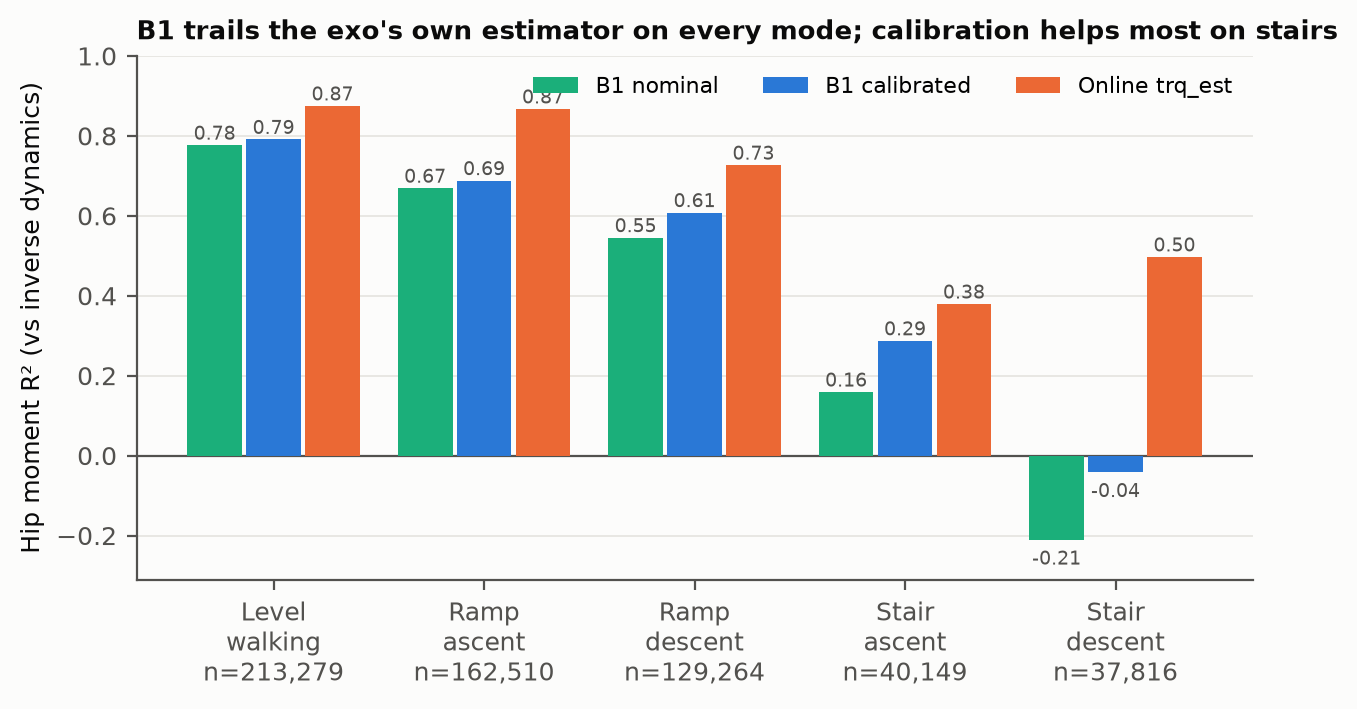
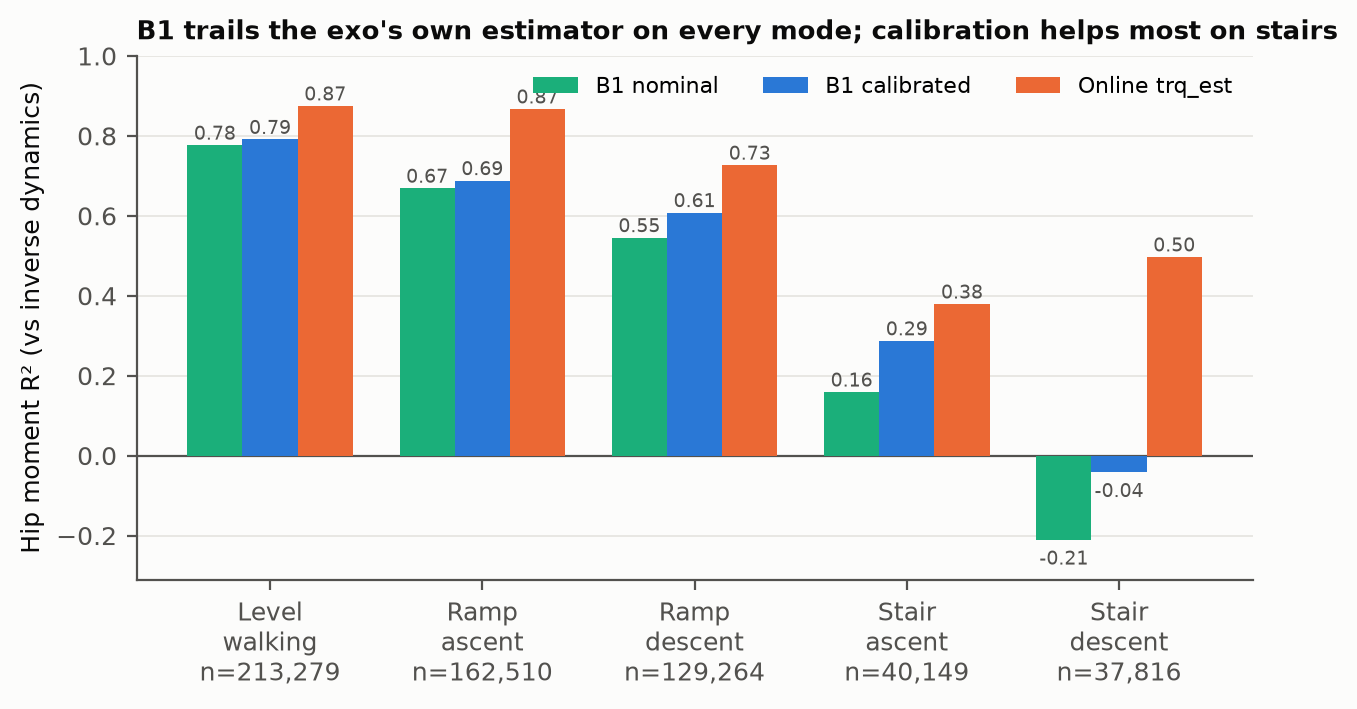
D03 final 16 scored once; D05 encoder TensorRT test
- D03: final participants (sealed predictions from D04's T1) scored once: B1 calibrated R^2 0.698
  vs the exo's online estimator 0.843, below it for every person and mode; figures for the final set.
  plot_replay.py gains --source and handles calibrated-only runs and ST/TR.
- D05: TCN-VAE encoder 10.97 -> 2.09 ms as a TensorRT engine; LSTM-VAE encoder 3.46 -> 14.09 ms
  (slower). Keep LSTM in PyTorch/cuDNN; awareness layer ~11.7 ms per window.

diff --git a/deployment/plot_replay.py b/deployment/plot_replay.py
@@ -24,7 +24,8 @@ FIGURES = Path(__file__).resolve().parent / 'docs' / 'figures'
 INK, MUTED, GRID, SURFACE = '#0b0b0b', '#52514e', '#e4e3df', '#fcfcfb'
 SERIES = {'B1 calibrated': '#2a78d6', 'Online trq_est': '#eb6834', 'B1 nominal': '#1baf7a'}   # fixed order
 MODES = ('LG', 'RA', 'RD', 'SA', 'SD')
-MODE_NAMES = {'LG': 'Level\nwalking', 'RA': 'Ramp\nascent', 'RD': 'Ramp\ndescent', 'SA': 'Stair\nascent', 'SD': 'Stair\ndescent'}
+MODE_NAMES = {'LG': 'Level\nwalking', 'RA': 'Ramp\nascent', 'RD': 'Ramp\ndescent', 'SA': 'Stair\nascent', 'SD': 'Stair\ndescent',
+              'ST': 'Standing', 'TR': 'Transitions'}
 plt.rcParams.update({'figure.dpi': 110, 'savefig.dpi': 200, 'font.size': 9, 'axes.edgecolor': MUTED, 'axes.labelcolor': INK,
                      'xtick.color': MUTED, 'ytick.color': MUTED, 'axes.spines.top': False, 'axes.spines.right': False,
                      'figure.facecolor': SURFACE, 'axes.facecolor': SURFACE, 'axes.grid': True, 'grid.color': GRID,
@@ -39,33 +40,36 @@ def save(fig: plt.Figure, name: str) -> None:
 
 def plot_modes(rows: pd.DataFrame, tag: str) -> None:
     """Grouped bars: hip R² per mode, three estimators, common samples."""
-    table = ar.score(rows, ['mode']).set_index('mode').reindex(list(MODES))
+    table = ar.score(rows, ['mode']).set_index('mode')
+    modes = [m for m in (*MODES, 'ST', 'TR') if m in table.index]          # ST and TR only where inverse dynamics exists
+    table = table.reindex(modes)
     columns = {'B1 nominal': 'B1 nominal r2', 'B1 calibrated': 'B1 calibrated r2', 'Online trq_est': 'online trq_est r2'}
-    order = ['B1 nominal', 'B1 calibrated', 'Online trq_est']
-    fig, ax = plt.subplots(figsize = (7.2, 3.4))
-    width = 0.26
+    order = [name for name in ('B1 nominal', 'B1 calibrated', 'Online trq_est') if columns[name] in table]
+    columns = {k: v for k, v in columns.items() if k in order}
+    fig, ax = plt.subplots(figsize = (7.2 if len(modes) <= 5 else 8.4, 3.4))
+    width = 0.78 / len(order)
     for i, name in enumerate(order):
         values = table[columns[name]].to_numpy()
-        x = np.arange(len(MODES)) + (i - 1) * (width + 0.02)
+        x = np.arange(len(modes)) + (i - (len(order) - 1) / 2) * width
         ax.bar(x, values, width, color = SERIES[name], label = name, zorder = 3)
         for xi, v in zip(x, values):
             ax.annotate(f'{v:.2f}', (xi, v), xytext = (0, 2 if v >= 0 else -9), textcoords = 'offset points', ha = 'center',
                         fontsize = 7, color = MUTED)
     ax.axhline(0, color = MUTED, lw = 0.8)
-    ax.set_xticks(range(len(MODES)), [f'{MODE_NAMES[m]}\nn={int(table.loc[m, "n"]):,}' for m in MODES])
+    ax.set_xticks(range(len(modes)), [f'{MODE_NAMES[m]}\nn={int(table.loc[m, "n"]):,}' for m in modes])
     ax.set_ylabel('Hip moment R² (vs inverse dynamics)')
     ax.set_ylim(min(-0.3, np.nanmin(table[list(columns.values())].to_numpy()) - 0.1), 1)
     ax.grid(axis = 'x', visible = False)
     ax.legend(ncol = 3, loc = 'upper right', fontsize = 8)
-    ax.set_title('B1 trails the exo\'s own estimator on every mode; calibration helps most on stairs', loc = 'left', fontsize = 9.5,
-                 color = INK, fontweight = 'bold')
+    title = 'B1 trails the exo\'s own estimator on every mode' + ('; calibration helps most on stairs' if 'B1 nominal' in order else '')
+    ax.set_title(title, loc = 'left', fontsize = 9.5, color = INK, fontweight = 'bold')
     save(fig, f'D03_{tag}_r2_per_mode.png')
 
 
-def plot_traces(subject: str, tag: str, sign: float) -> None:
-    """A few seconds of level walking and stair descent, left leg: ground truth vs the three estimators."""
+def plot_traces(subject: str, tag: str, sign: float, source: str) -> None:
+    """A few seconds of level walking and stair descent, left leg: ground truth vs the estimators."""
     data = np.load(sr.OUT / f'{subject}.npz')
-    pred = np.load(ar.PRED / 'jetson' / f'{subject}.npz')
+    pred = np.load(ar.PRED / source / f'{subject}.npz')
     fig, axes = plt.subplots(1, 2, figsize = (9.6, 3.2), sharey = True)
     for ax, mode in zip(axes, ('LG', 'SD')):
         best = None
@@ -80,10 +84,10 @@ def plot_traces(subject: str, tag: str, sign: float) -> None:
         a = ok[0] + 10 if len(ok) else 300
         span = slice(a, min(a + 4 * sr.nt.RATE_HZ, n))                         # 4 s
         t = np.arange(n)[span] / sr.nt.RATE_HZ
-        b1 = {v: pred[f'pred_{v}'][s:s + n, 0] for v in sr.VARIANTS}
+        b1 = {v: pred[f'pred_{v}'][s:s + n, 0] for v in sr.VARIANTS if f'pred_{v}' in pred.files}
         lagged = np.r_[np.full(ar.LAG, np.nan), moment[:-ar.LAG]]           # B1 at t estimates the moment at t - 10
         ax.plot(t, lagged[span], color = INK, lw = 2.2, label = 'Inverse dynamics (B1 target, t − 50 ms)')
-        for name, y in (('B1 nominal', b1['nominal']), ('B1 calibrated', b1['calibrated'])):
+        for name, y in [(f'B1 {v}', y) for v, y in b1.items()]:
             yy = y[span]
             ax.plot(t[np.isfinite(yy)], yy[np.isfinite(yy)], color = SERIES[name], lw = 1.6, label = name)
         ax.plot(t, sign * data['trq_est'][s:s + n, 0][span], color = SERIES['Online trq_est'], lw = 1.6, label = 'Online trq_est (t)')
@@ -184,18 +188,21 @@ def plot_device(subjects: list[str], tag: str) -> None:
 def main() -> None:
     parser = argparse.ArgumentParser(description = __doc__.split('\n')[0])
     parser.add_argument('--subjects', default = 'dev', choices = ('dev', 'final', 'all'))
+    parser.add_argument('--source', default = 'jetson', help = 'predictions folder, e.g. jetson, jetson_final')
     args = parser.parse_args()
     FIGURES.mkdir(parents = True, exist_ok = True)
     dev = ar.get_subjects('dev')
     sign = ar.get_sign(pd.concat([ar.get_rows(s, 'reference') for s in dev]))
     subjects = ar.get_subjects(args.subjects)
-    rows = pd.concat([ar.get_rows(s, 'jetson') for s in subjects], ignore_index = True)
+    rows = pd.concat([ar.get_rows(s, args.source) for s in subjects], ignore_index = True)
     rows[['trq_est', 'moment_t', 'moment_lag']] *= sign
     plot_modes(rows, args.subjects)
-    plot_traces(subjects[0], args.subjects, sign)
-    plot_calibration(rows, args.subjects)
+    plot_traces(subjects[0], args.subjects, sign, args.source)
+    if rows['b1_nominal'].notna().any():                                       # needs both variants
+        plot_calibration(rows, args.subjects)
     plot_lag(dev, sign, args.subjects)
-    plot_device(subjects, args.subjects)
+    if all((ar.PRED / 'reference' / f'{s}.npz').exists() for s in subjects):    # needs the PyTorch reference
+        plot_device(subjects, args.subjects)
 
 
 if __name__ == '__main__':

diff --git a/deployment/encoder_engine_test.py b/deployment/encoder_engine_test.py
@@ -1,0 +1,102 @@
+"""On the Jetson: would TensorRT speed up the awareness encoders? Stand-in weights, so no trained model moves.
+
+    python deployment/encoder_engine_test.py
+
+For the LSTM-VAE encoder (16 ch) and the TCN-VAE encoder (23 ch), 600-sample windows, batch 1, random weights of the
+deployed architectures: export ``encode`` (mean and log variance) to ONNX, build fp32 and fp16 engines with trtexec,
+check each engine against PyTorch fp32 on random windows, and time it exactly as latency_budget.py times PyTorch (500
+calls after 50 warm-up, CUDA synchronized). Writes data/replay/scirob/encoder_engines.json and prints a table.
+"""
+import json
+from pathlib import Path
+import subprocess
+import sys
+
+import numpy as np
+import tensorrt as trt
+import torch
+from torch import nn
+
+HERE = Path(__file__).resolve().parent
+sys.path.insert(0, str(HERE))
+sys.path.insert(0, str(HERE.parent / 'ml' / 'common'))
+from latency_budget import WINDOW, time_ms  # noqa: E402
+from moment_engine import TRTEXEC  # noqa: E402
+from models.seq_vae import LSTMVAE, TCNVAE  # noqa: E402
+
+OUT = HERE.parent / 'data' / 'replay' / 'scirob' / 'encoder_engines'
+
+
+class Encoder(nn.Module):
+    """A VAE's encoder alone: (1, C, W) -> mean, log variance (1, 4, 8) each."""
+
+    def __init__(self, vae: nn.Module) -> None:
+        super().__init__()
+        self.vae = vae
+
+    def forward(self, x: torch.Tensor) -> tuple[torch.Tensor, torch.Tensor]:
+        return self.vae.encode(x)
+
+
+class Runner:
+    """A deserialized engine with fixed torch I/O buffers on the GPU."""
+
+    def __init__(self, path: Path) -> None:
+        self.engine = trt.Runtime(trt.Logger(trt.Logger.ERROR)).deserialize_cuda_engine(path.read_bytes())
+        self.context = self.engine.create_execution_context()
+        self.buffers = {}
+        for i in range(self.engine.num_io_tensors):
+            name = self.engine.get_tensor_name(i)
+            self.buffers[name] = torch.empty(tuple(self.engine.get_tensor_shape(name)), dtype = torch.float32, device = 'cuda')
+            self.context.set_tensor_address(name, self.buffers[name].data_ptr())
+
+    def __call__(self, x: torch.Tensor) -> tuple[torch.Tensor, torch.Tensor]:
+        self.buffers['window'].copy_(x)
+        stream = torch.cuda.current_stream()
+        if not self.context.execute_async_v3(stream.cuda_stream):
+            raise RuntimeError('TensorRT execution failed')
+        stream.synchronize()
+        return self.buffers['mu'], self.buffers['logvar']
+
+
+def main() -> None:
+    torch.manual_seed(0)
+    OUT.mkdir(parents = True, exist_ok = True)
+    results = {}
+    for name, vae, channels in (('LSTM-VAE encoder', LSTMVAE(16, WINDOW), 16), ('TCN-VAE encoder', TCNVAE(23, WINDOW), 23)):
+        model = Encoder(vae).eval()
+        stem = name.split()[0].lower()
+        onnx_path = OUT / f'{stem}.onnx'
+        torch.onnx.export(model, (torch.zeros(1, channels, WINDOW),), str(onnx_path), input_names = ['window'],
+                          output_names = ['mu', 'logvar'], opset_version = 17, dynamo = False)
+        model = model.cuda()
+        x = torch.randn(1, channels, WINDOW, device = 'cuda')
+        with torch.inference_mode():
+            results[f'{name}, PyTorch fp32'] = time_ms(lambda: model(x))
+            for precision in ('fp32', 'fp16'):
+                engine_path = OUT / f'{stem}_{precision}.engine'
+                cmd = [TRTEXEC, f'--onnx={onnx_path}', f'--saveEngine={engine_path}', '--skipInference']
+                build = subprocess.run(cmd + (['--fp16'] if precision == 'fp16' else []), capture_output = True, text = True)
+                if build.returncode != 0:
+                    results[f'{name}, TensorRT {precision}'] = {'error': build.stdout[-1500:] + build.stderr[-1500:]}
+                    print(f'{name} {precision}: trtexec failed', flush = True)
+                    continue
+                runner = Runner(engine_path)
+                errors = []
+                for _ in range(20):
+                    xi = torch.randn(1, channels, WINDOW, device = 'cuda')
+                    mu_ref, lv_ref = model(xi)
+                    mu, lv = runner(xi)
+                    errors.append(max((mu - mu_ref).abs().max().item(), (lv - lv_ref).abs().max().item()))
+                results[f'{name}, TensorRT {precision}'] = {**time_ms(lambda: runner(x)), 'max_abs_vs_pytorch': max(errors)}
+    (OUT.parent / 'encoder_engines.json').write_text(json.dumps(results, indent = 2))
+    print(f'{"":42s} {"median":>8s} {"p99":>8s} {"max|diff|":>10s}  (ms)')
+    for k, v in results.items():
+        if 'error' in v:
+            print(f'{k:42s} build failed')
+        else:
+            print(f'{k:42s} {v["median"]:8.2f} {v["p99"]:8.2f} {v.get("max_abs_vs_pytorch", float("nan")):10.2e}')
+
+
+if __name__ == '__main__':
+    main()

diff --git a/deployment/docs/D03_scirob_replay_stage_a.md b/deployment/docs/D03_scirob_replay_stage_a.md
@@ -5,7 +5,7 @@
 | ID | D03 |
 | Date | 2026-10-27 |
 | Dataset | Science Robotics 2024 (Molinaro): AB15–AB34, custom hip exo, 1505 trials, 6.3 h, modes LG, RA, RD, SA, SD, ST, TR. None in B1's training data |
-| Status | **Dev complete** (4 participants, 2026-10-27). Final 16: predictions produced **sealed** on the Jetson overnight 2026-10-27 (D04's T1: calibrated variant, `predictions/jetson_final/`); not analyzed |
+| Status | Complete. Dev 2026-10-27; final 16 predicted sealed on the Jetson overnight 2026-10-27 (D04's T1, calibrated) and scored once 2026-10-29 |
 | Sources | D02 (the B1 engine), E41 (B1), E01 (Sci-Rob audit, axis conventions) |
 | Code / notebooks | `deployment/scirob_replay.py` (converter, Mac), `replay_reference.py` (PyTorch reference, Mac), `replay_runner.py` (streaming replay, Jetson), `analyze_replay.py`, `plot_replay.py` (figures in `docs/figures/D03_*`); streams and predictions in `data/replay/scirob/` (gitignored) |
 
@@ -107,6 +107,34 @@ B1 would gain roughly 0.02 in r; the fixed rule (lag 10) is kept for every numbe
   every mode (pooled 0.707 vs 0.838), and fails on stair descent. The online estimator was built for this exo and these
   tasks; B1 has never seen this device, its sensor mounting, or Sci-Rob's moment timing.
 
+### Final participants (scored once, 2026-10-29)
+
+The other 16 participants, calibrated variant only (chosen on dev), predicted on the Jetson by D04's T1 and analyzed once
+with the dev-derived sign and the fixed lag-10 rule. 2,666,586 leg-samples where B1, `trq_est` and the moment all exist.
+
+| | n | B1 calibrated | Online `trq_est` |
+|---|---|---|---|
+| Pooled | 2,666,586 | **0.698** (0.227) | **0.843** (0.164) |
+| Left / right leg | | 0.740 / 0.656 | 0.860 / 0.826 |
+| LG | 1,018,545 | 0.761 (0.216) | 0.864 (0.162) |
+| RA | 681,081 | 0.700 (0.261) | 0.872 (0.170) |
+| RD | 527,902 | 0.620 (0.207) | 0.759 (0.164) |
+| SA | 163,039 | 0.372 (0.237) | 0.697 (0.163) |
+| SD | 149,075 | 0.006 (0.243) | 0.531 (0.168) |
+| ST | 29,760 | −0.944 (0.125) | 0.247 (0.078) |
+| TR | 97,184 | 0.535 (0.171) | 0.717 (0.133) |
+| Per participant, range | | 0.551–0.804 | 0.729–0.938 |
+
+![Hip R² per mode, final participants](figures/D03_final_r2_per_mode.png)
+
+![Example traces, final participant AB16](figures/D03_final_example_traces.png)
+
+- **The final participants reproduce dev:** pooled B1 0.698 against dev's 0.707, the online estimator 0.843 against
+  0.838. B1 is below the online estimator for all 16 people, and for every mode.
+- Standing (ST) has little moment variance, so R² is unstable there; its RMSE is the small one (0.125 N·m/kg), still
+  above the online estimator's 0.078.
+- The right leg is now the weaker one (0.656 vs left 0.740; dev 0.696 vs 0.716).
+
 ## Conclusion
 
 - **The engine path is verified end to end on the device:** a converter from this lab's exo data, streaming at the
@@ -117,6 +145,6 @@ B1 would gain roughly 0.02 in r; the fixed rule (lag 10) is kept for every numbe
   most on stairs. Candidate causes, testable next: the moment-timing offset (about 0.02 r), stair loading the thigh
   cannot see (E41's unseen-task finding), and the accelerometer scale errors on AB28 and AB29.
 - **For the real-time loop:** run with real-time priority or isolate the core; 3 in 800,000 steps missed a tick here.
-- **Final 16:** their calibrated predictions exist (sealed, produced by D04's T1) and stay unanalyzed until B1's
-  deployed form is decided. Post-processing changes (output filter, scoring lag) can be applied to them; retraining B1
-  cannot.
+- **Held out, the result stands:** on 16 new people B1 reaches R² 0.70 on this exo against the device's own estimator's
+  0.84; the gap is largest on stairs and standing. These 16 have now been used once; later B1 variants need new held-out
+  data (or the dev participants, already spent on decisions, for development).

diff --git a/deployment/docs/D05_encoder_tensorrt.md b/deployment/docs/D05_encoder_tensorrt.md
@@ -1,0 +1,43 @@
+# D05: Do the awareness encoders get faster as TensorRT engines?
+
+| Field | Value |
+|---|---|
+| ID | D05 |
+| Date | 2026-10-29 |
+| Dataset | None: random windows; random weights of the deployed architectures (latency does not depend on weight values) |
+| Status | Complete |
+| Sources | D04 (awareness layer 20.1 ms per window; TCN-VAE encoder 10.5 ms, LSTM-VAE encoder 3.4 ms in PyTorch); D02 (B1: PyTorch 5.9 → TensorRT 2.0 ms) |
+| Code / notebooks | `deployment/encoder_engine_test.py`; results `data/replay/scirob/encoder_engines.json` |
+
+## Hypothesis
+
+From D04's conclusion, written before this was measured: converting both VAE encoders to TensorRT, as B1 was, shortens
+them the way it shortened B1 (about 3×), most usefully the TCN-VAE encoder, the largest item in the awareness budget.
+
+## Method
+
+- LSTM-VAE encoder (16 channels) and TCN-VAE encoder (23 channels), 600-sample windows, batch 1, the deployed
+  architectures (`ml/common/models/seq_vae.py`) with random weights; `encode` only (mean and log variance, 4 × 8 each).
+- ONNX opset 17 (static shapes) → `trtexec` fp32 and fp16 engines on the Jetson (TensorRT 10.3).
+- Checked against PyTorch fp32 on 20 random windows (max abs difference over both outputs); timed exactly as D04's
+  latency budget: 500 calls after 50 warm-up, CUDA synchronized.
+
+## Result
+
+| Encoder | PyTorch fp32 | TensorRT fp32 | TensorRT fp16 | Engine vs PyTorch, max abs |
+|---|---|---|---|---|
+| TCN-VAE | 10.97 ms (p99 11.15) | **2.09 ms** (p99 2.18) | 2.08 ms (p99 2.13) | 3.0e-5 (fp16 4.2e-4) |
+| LSTM-VAE | **3.46 ms** (p99 5.53) | 14.09 ms (p99 14.34) | 14.10 ms (p99 14.37) | 2.5e-5 (fp16 9.1e-5) |
+
+- **TCN-VAE: holds, and more:** 5.2× faster as an engine; fp16 adds nothing.
+- **LSTM-VAE: does not hold:** 4× slower as an engine. The likely reason: PyTorch runs the 2-layer, 600-step LSTM as one
+  fused cuDNN kernel, while TensorRT executes the recurrence as an explicit loop over the 600 steps.
+
+## Conclusion
+
+- **Use TensorRT for the TCN-VAE encoder and keep the LSTM-VAE encoder in PyTorch (cuDNN).** The awareness layer per
+  window becomes about 3.4 (LSTM) + 2.1 (TCN engine) + 5.6 (novelty) + 0.6 (trees, smoothing) ≈ **11.7 ms**, down from
+  20.1; without LOF (plan step 4) roughly 6–7 ms.
+- That is still more than half a 10 ms tick next to B1's 2–2.4 ms, so the two-loop design from D04 stands: B1 every
+  tick, awareness on its own 50 ms cadence.
+- Real engines need the trained encoders on the device; this used stand-ins and checked only conversion and speed.

diff --git a/deployment/docs/EXPERIMENTS.md b/deployment/docs/EXPERIMENTS.md
@@ -10,5 +10,6 @@ written before results are seen. The current deployment state and plan live in
 |---|---|---|---|
 | [D01](D01_awareness_portability_to_jetson.md) | Oct 27 | Can the validated awareness layer (E39) run on the Jetson's Python 3.10 without changing it? | Refit under scikit-learn 1.7.2 is within seed noise but a different model (0.006% dangerous to the spline). Shipped instead as plain arrays: reproduces E39 to 1e-9, no scikit-learn on the device |
 | [D02](D02_b1_tensorrt_engine_on_jetson.md) | Oct 27 | Does B1 survive conversion to TensorRT on the Jetson, and how fast is it? | Engine vs PyTorch 7.6e-5 N·m/kg on real validation windows; R² 0.7530 vs the run's 0.7529; 1.98 ms per two-leg call. Beats the Nature study's deployed estimator on Phase 3 (0.725 vs 0.671) |
-| [D03](D03_scirob_replay_stage_a.md) | Oct 27 | Stage A replay: B1 streamed on the Jetson over Sci-Rob exo recordings, vs inverse dynamics and the exo's online estimator | Dev (4 people): Jetson = reference to 1.6e-3 N·m/kg; 2.36 ms per step (p99 2.83). B1 calibrated R² 0.707 vs the exo's online estimator 0.838; calibration +0.06 on the rolled left IMU; B1 fails on stair descent. Final 16 pending |
+| [D03](D03_scirob_replay_stage_a.md) | Oct 27 | Stage A replay: B1 streamed on the Jetson over Sci-Rob exo recordings, vs inverse dynamics and the exo's online estimator | Dev (4 people): Jetson = reference to 1.6e-3 N·m/kg; 2.36 ms per step (p99 2.83). B1 calibrated R² 0.707 vs the exo's online estimator 0.838; calibration +0.06 on the rolled left IMU; B1 fails on stair descent. **Final 16 (scored once): B1 0.698 vs online 0.843**, below it for every person and mode |
 | [D04](D04_device_timing_and_stability.md) | Oct 27 | Does the device keep time? Latency budget of the whole controller, jitter sources, fp16, 12 h soak at 100 Hz | 12 h at 100 Hz: no drift (p99 2.7 ms every hour, +3% memory, ≤ 45 °C, 3.4 W); device misses 1.4e-5 (96% of misses were the test harness's own file writes). GC freezing / core pinning don't change jitter. Awareness layer 20 ms per window: needs its own 50 ms loop. fp16 7% faster, same accuracy |
+| [D05](D05_encoder_tensorrt.md) | Oct 29 | Do the awareness encoders get faster as TensorRT engines? | TCN-VAE 10.97 → 2.09 ms (5.2×); LSTM-VAE 3.46 → 14.09 ms (4× slower: TensorRT loops the 600-step recurrence, PyTorch uses fused cuDNN). Mix them: awareness ≈ 11.7 ms per window |

diff --git a/README.md b/README.md
@@ -506,6 +506,7 @@ deployment/
   soak_test.py          on the Jetson: hours of streaming at true 100 Hz pacing, per-tick timing and memory
   latency_budget.py     on the Jetson: per-window latency of every controller component (stand-in weights)
   analyze_device.py     D04's numbers and figures from the battery's outputs (soak stalls by cause, jitter, fp16, budget, thermals)
+  encoder_engine_test.py  on the Jetson: VAE encoders as TensorRT engines vs PyTorch, stand-in weights (D05)
   sync_exo_code.sh      commits exo-code edits made on the Jetson and syncs them with ../HipExoGPUCode (branch uncertainty-aware-hip-exo)
 data/
   science-robotics/     supplementary figure data (MATLAB tables) — in git
